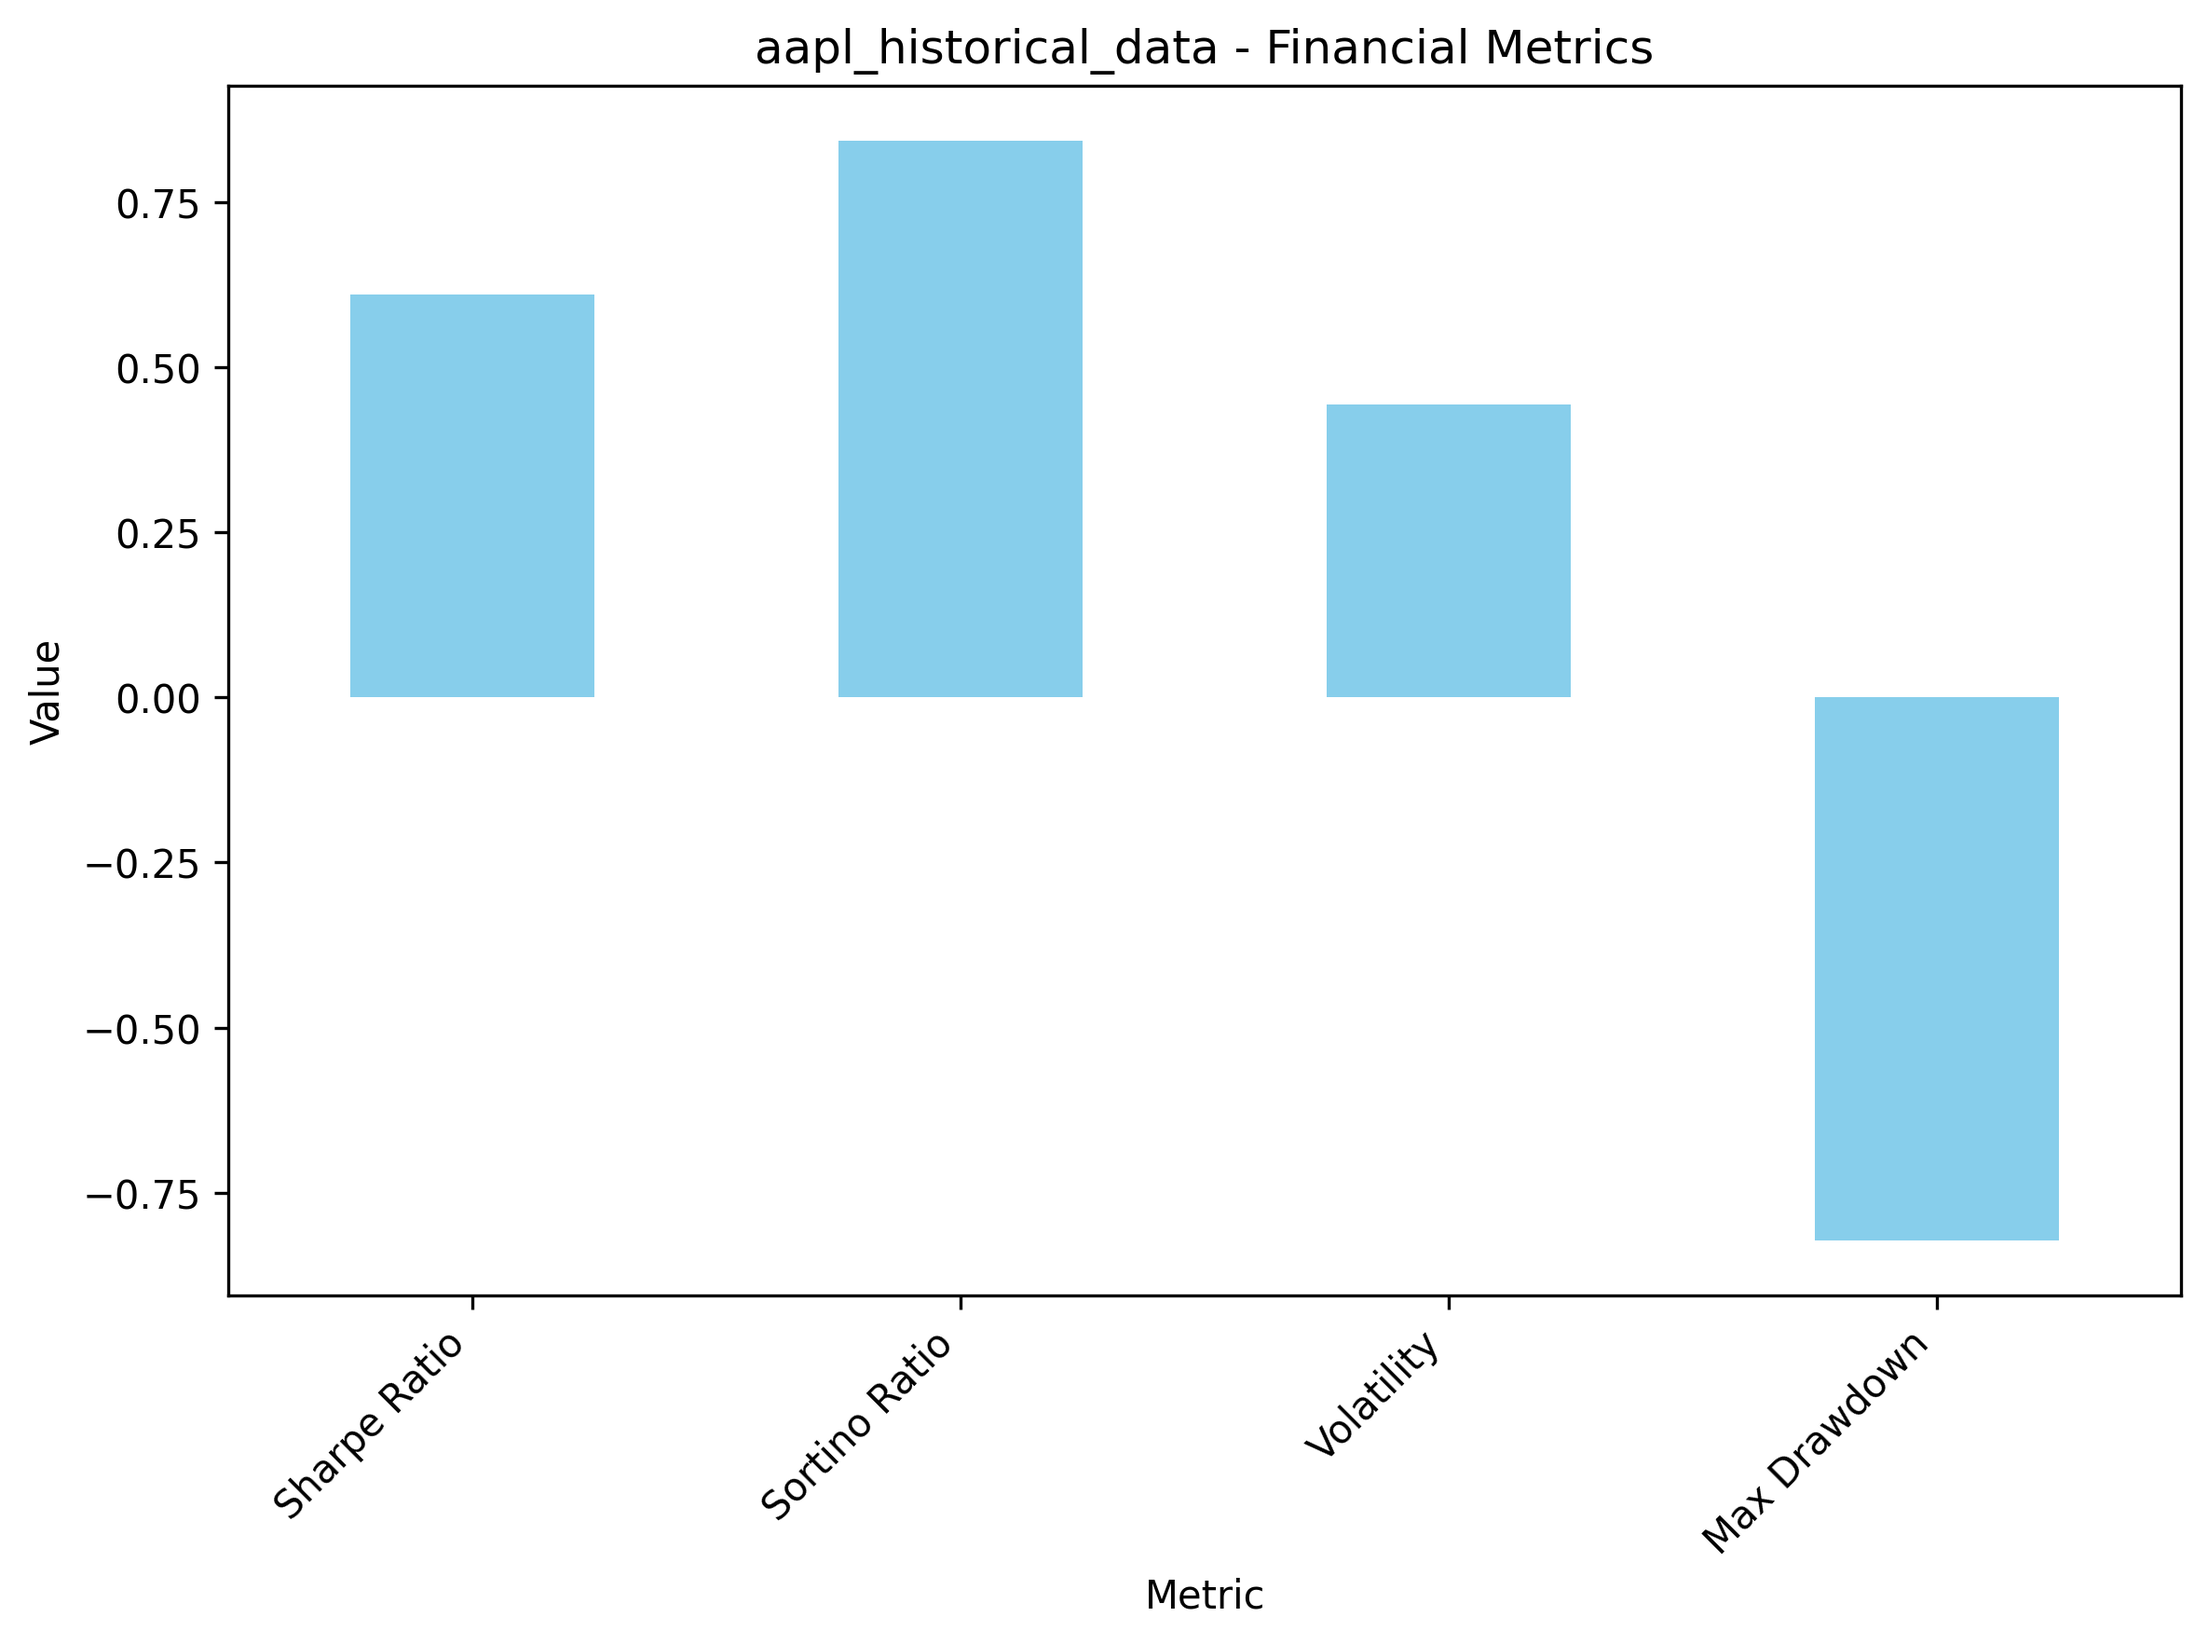
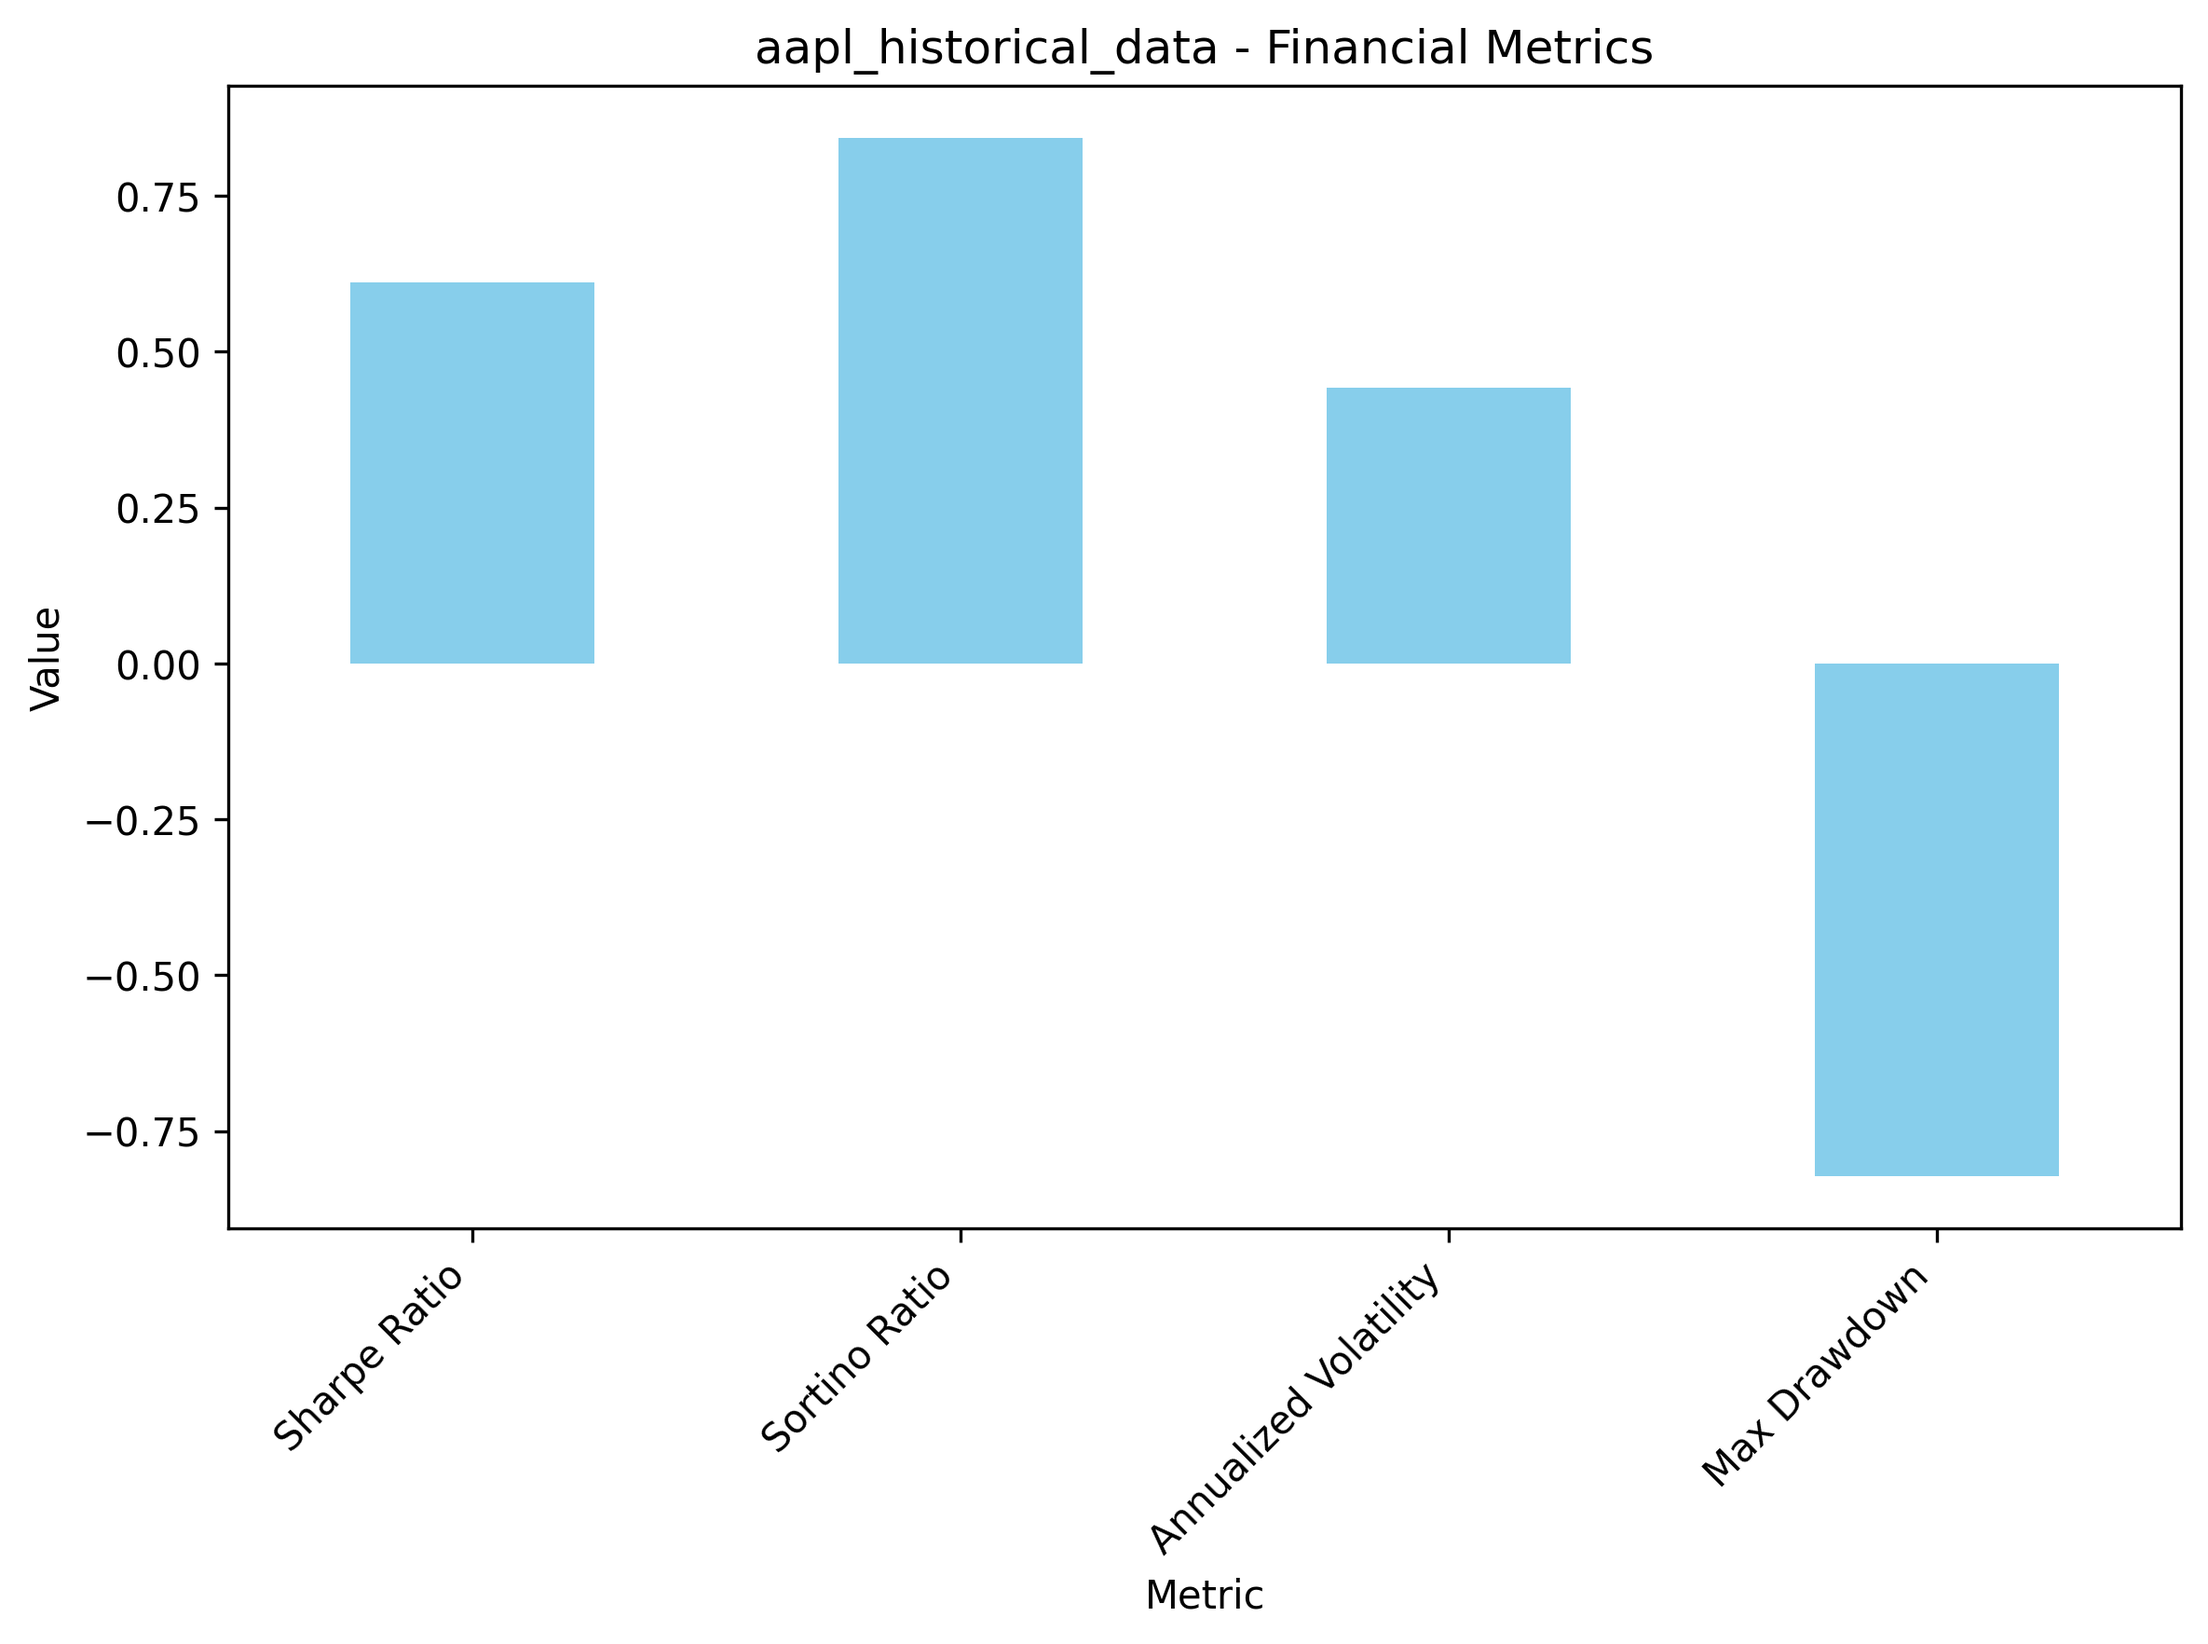
updated financial metrics script

diff --git a/src/calculate_financial_metrics.py b/src/calculate_financial_metrics.py
@@ -5,7 +5,7 @@ import matplotlib.pyplot as plt
 
 def calculate_financial_metrics(file_path, output_folder):
     """
-    Calculate financial metrics using pyfolio, numpy, and pandas, create plots, and save as PNG images.
+    Calculate financial metrics, print values to console, create plots, and save as PNG images.
 
     Args:
         file_path (str): Path to the cleaned stock price CSV file.
@@ -49,15 +49,20 @@ def calculate_financial_metrics(file_path, output_folder):
     financial_metrics = {
         'Sharpe Ratio': sharpe_ratio,
         'Sortino Ratio': sortino_ratio,
-        'Volatility': annualized_volatility,
+        'Annualized Volatility': annualized_volatility,
         'Max Drawdown': max_drawdown
     }
+
+    # Print metrics to the console
+    stock_name = os.path.splitext(os.path.basename(file_path))[0]
+    print(f"\nMetrics for {stock_name}:")
+    for metric, value in financial_metrics.items():
+        print(f"{metric}: {value:.4f}")
 
     # Convert metrics to a DataFrame
     metrics_df = pd.DataFrame.from_dict(financial_metrics, orient='index', columns=['Value'])
 
     # Determine the stock name and create a subfolder for the stock
-    stock_name = os.path.splitext(os.path.basename(file_path))[0]
     stock_output_folder = os.path.join(output_folder, stock_name)
     os.makedirs(stock_output_folder, exist_ok=True)
 

diff --git a/src/calculate_indicators.py b/src/calculate_indicators.py
@@ -35,6 +35,14 @@ def apply_ta_indicators_and_save_images(file_path, output_folder):
         df['Close'], fastperiod=12, slowperiod=26, signalperiod=9
     )
 
+    # Print relevant values to the console
+    print(f"\nProcessing file: {file_path}")
+    print("\nSample of Calculated Indicators:")
+    print(df[['Close', 'SMA_20', 'EMA_20', 'RSI_14', 'MACD', 'MACD_Signal', 'MACD_Hist']].tail())
+
+    print("\nBasic Statistics for Indicators:")
+    print(df[['SMA_20', 'EMA_20', 'RSI_14', 'MACD', 'MACD_Signal', 'MACD_Hist']].describe())
+
     # Determine the stock name and create a subfolder for the stock
     stock_name = os.path.splitext(os.path.basename(file_path))[0]
     stock_output_folder = os.path.join(output_folder, stock_name)
